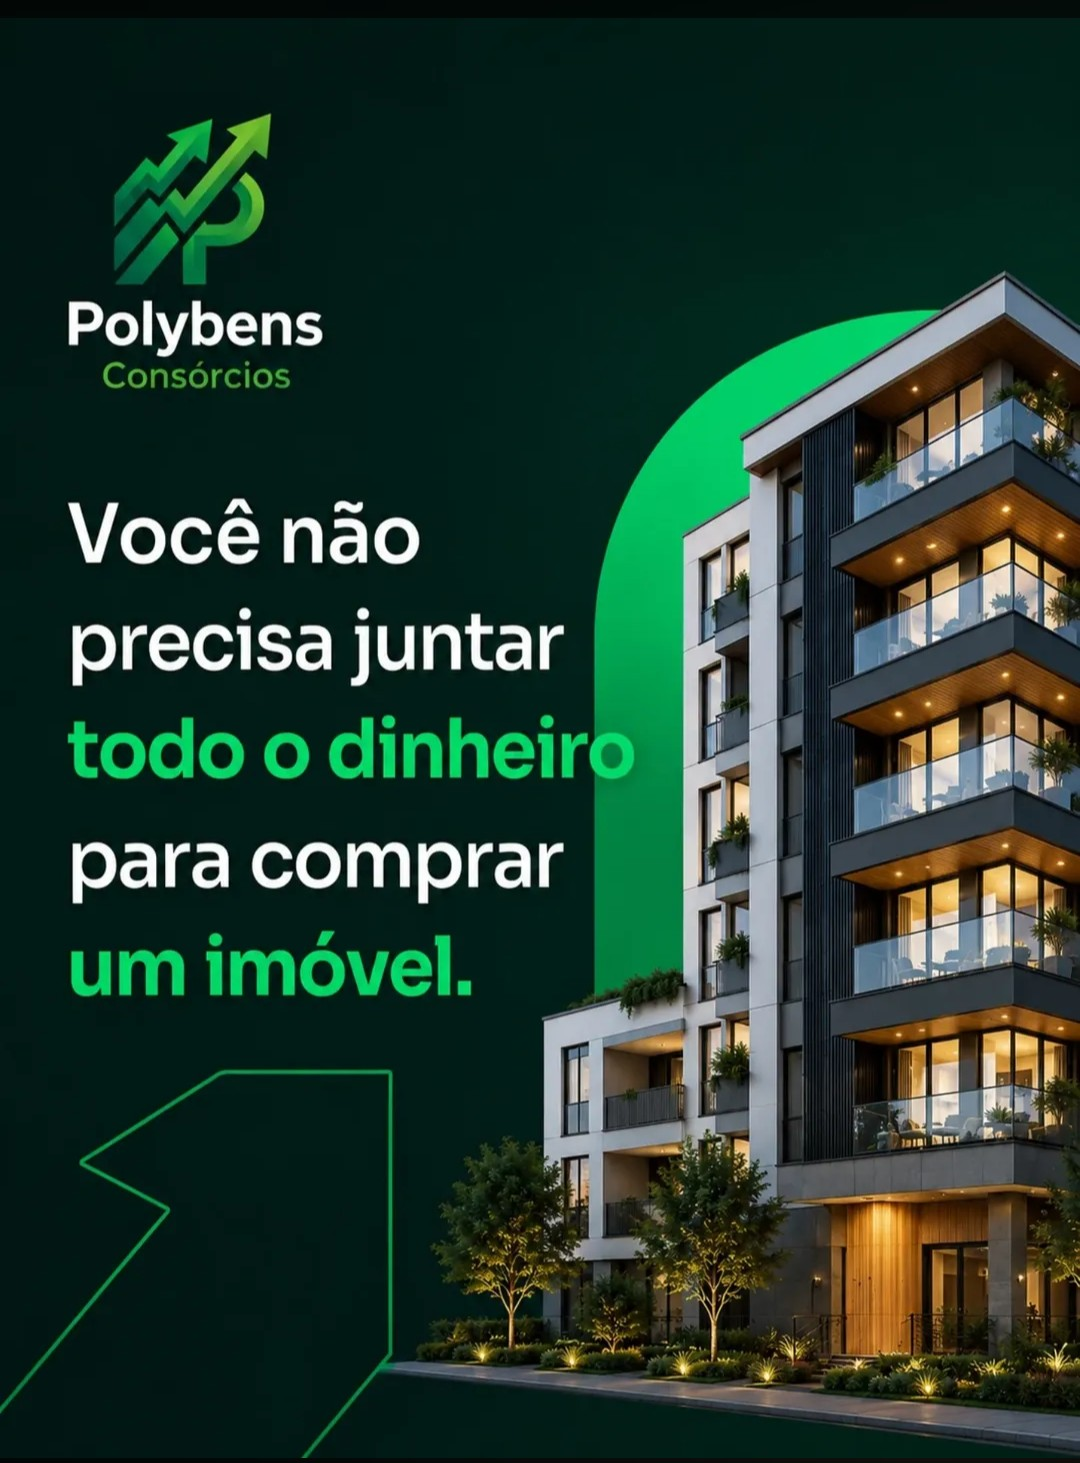
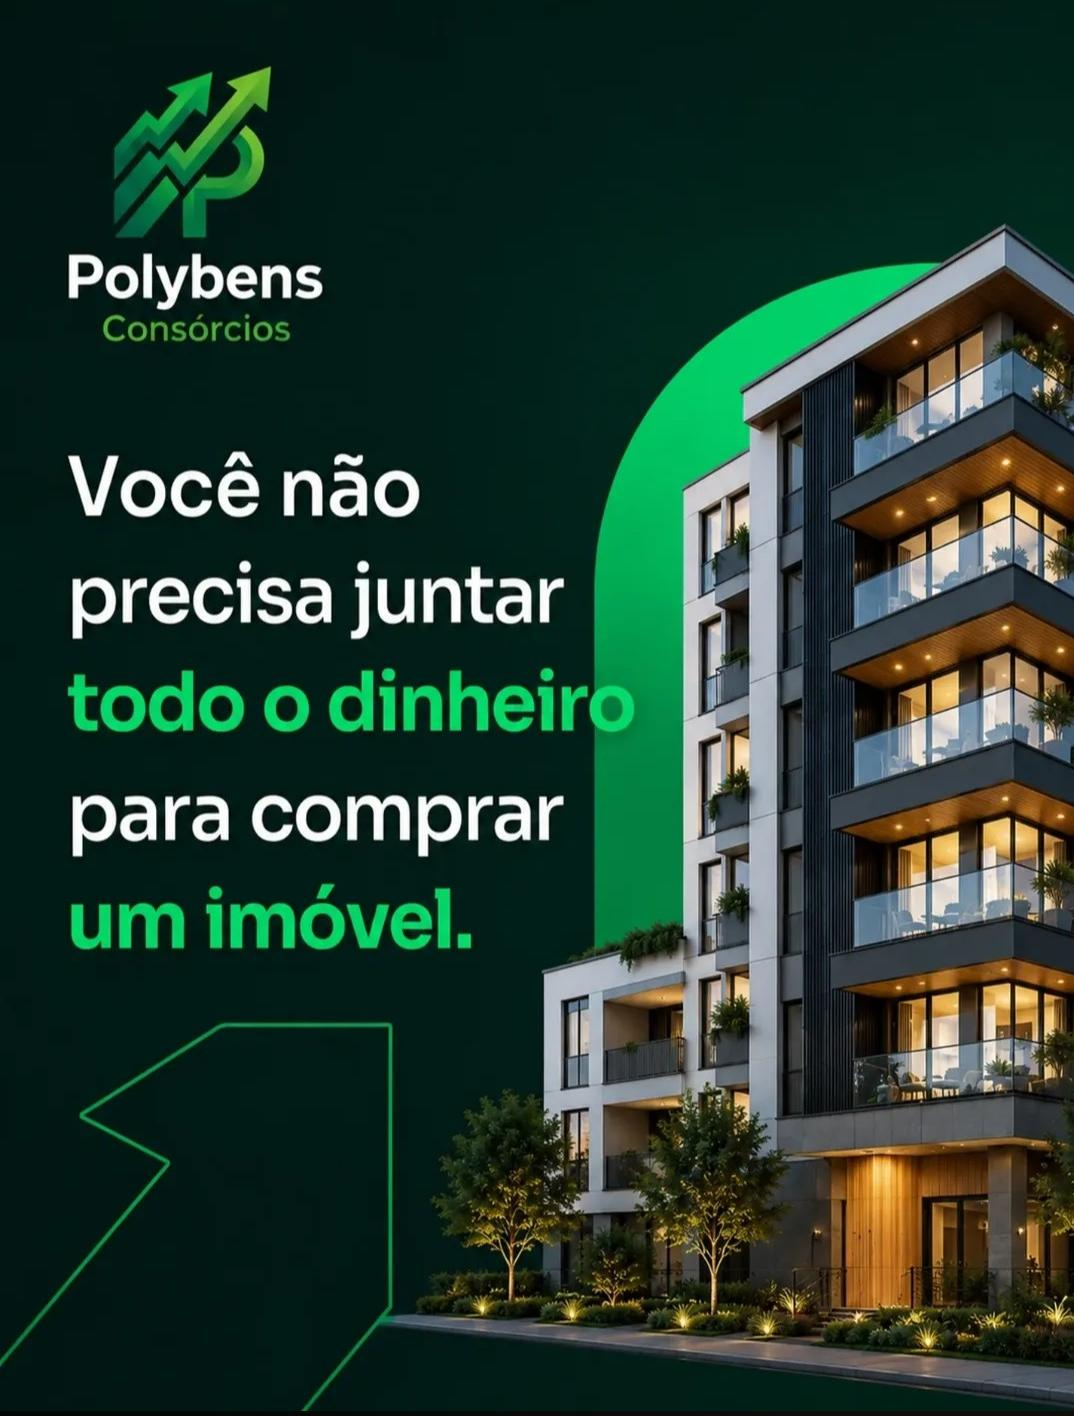
Ajustes finais na landing page Polybens

diff --git a/src/App.tsx b/src/App.tsx
@@ -65,25 +65,19 @@ function App() {
 
 
           <a
-            href="https://wa.me/message/QZSN4LOSADR3A1"
-            target="_blank"
-            rel="noreferrer"
-            style={{
-              display: "inline-flex",
-              alignItems: "center",
-              gap: "10px",
-              backgroundColor: "#16a34a",
-              color: "#ffffff",
-              textDecoration: "none",
-              padding: "15px 30px",
-              borderRadius: "12px",
-              fontWeight: "bold",
-              marginBottom: "30px",
-            }}
-          >
-            <FaWhatsapp />
-            QUERO UMA SIMULAÇÃO GRATUITA
-          </a>
+  href="https://wa.me/message/QZSN4LOSADR3A1"
+  target="_blank"
+  rel="noreferrer"
+  style={{
+    display: "inline-block",
+    marginTop: "25px",
+    color: "#ffffff",
+    textDecoration: "underline",
+    fontWeight: "bold",
+  }}
+>
+  QUERO UMA SIMULAÇÃO GRATUITA
+</a>
 
           <p
   style={{
@@ -101,17 +95,17 @@ function App() {
 <div
   style={{
     flex: 1.2,
-    minWidth: "500px",
+    minWidth: "280px",
   }}
 >
+
           <img
   src={hero}
   alt=""
   style={{
     width: "100%",
     height: "500px",
-    objectFit: "cover",
-    objectPosition: "center",
+    objectFit: "contain",
     borderRadius: "24px",
     boxShadow: "0 15px 35px rgba(0,0,0,0.35)",
   }}